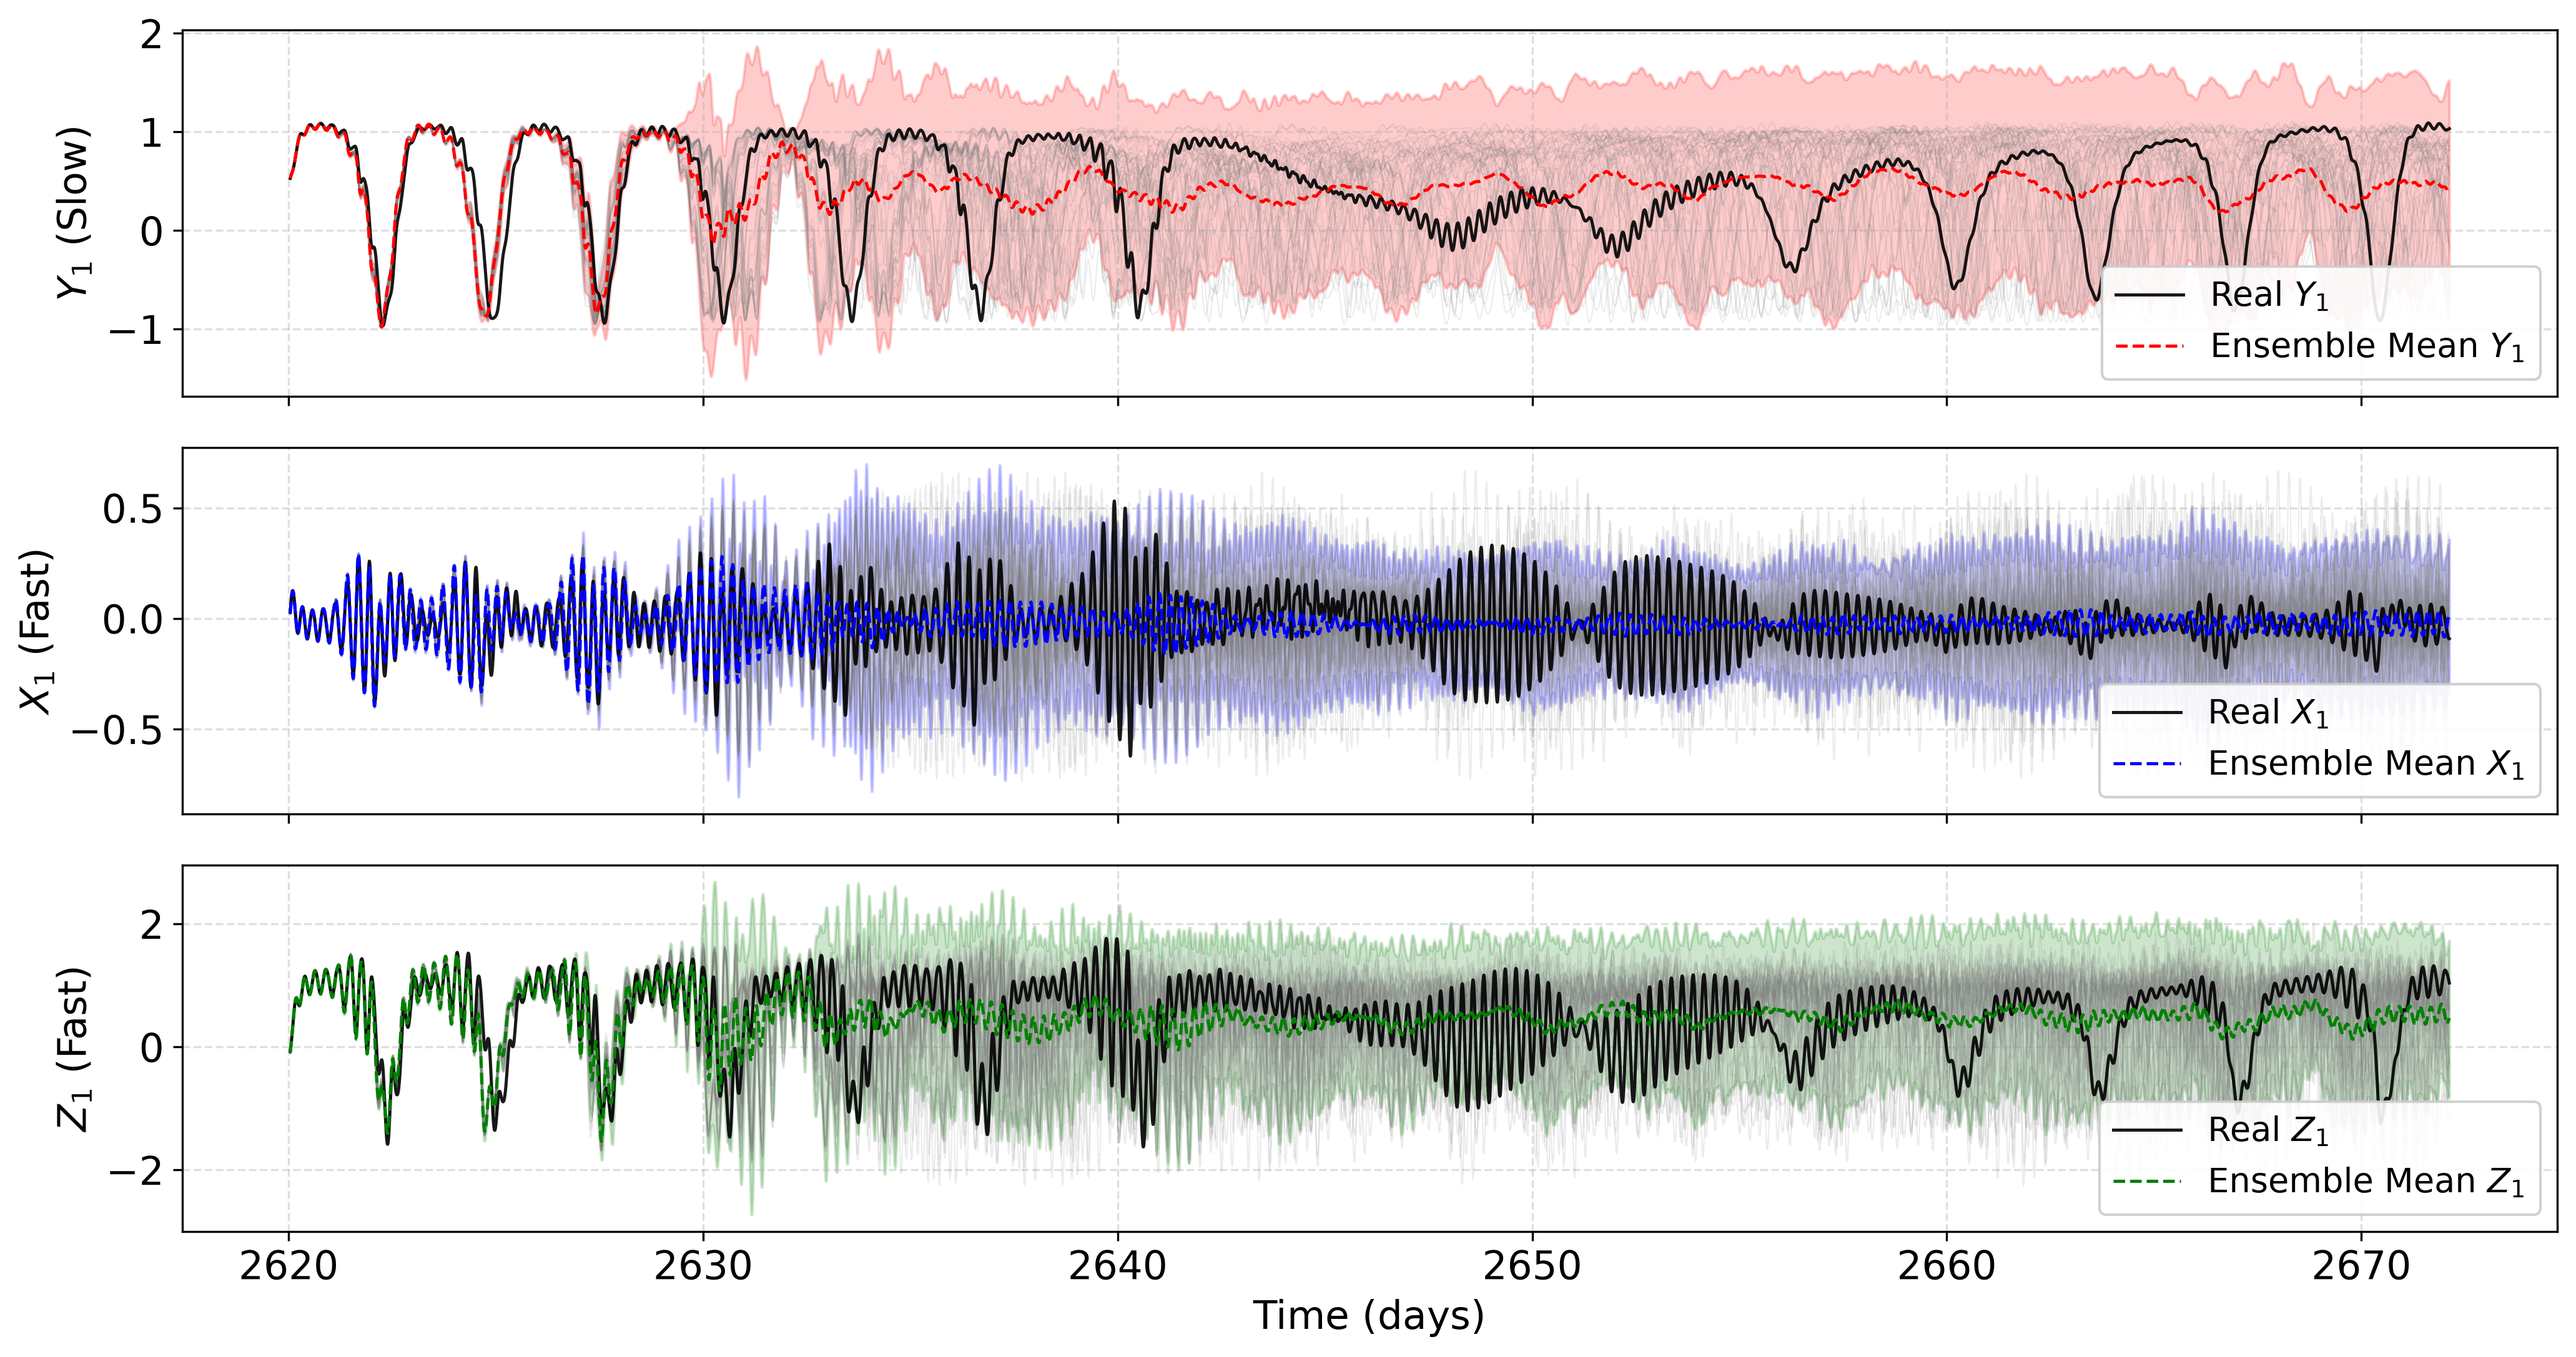
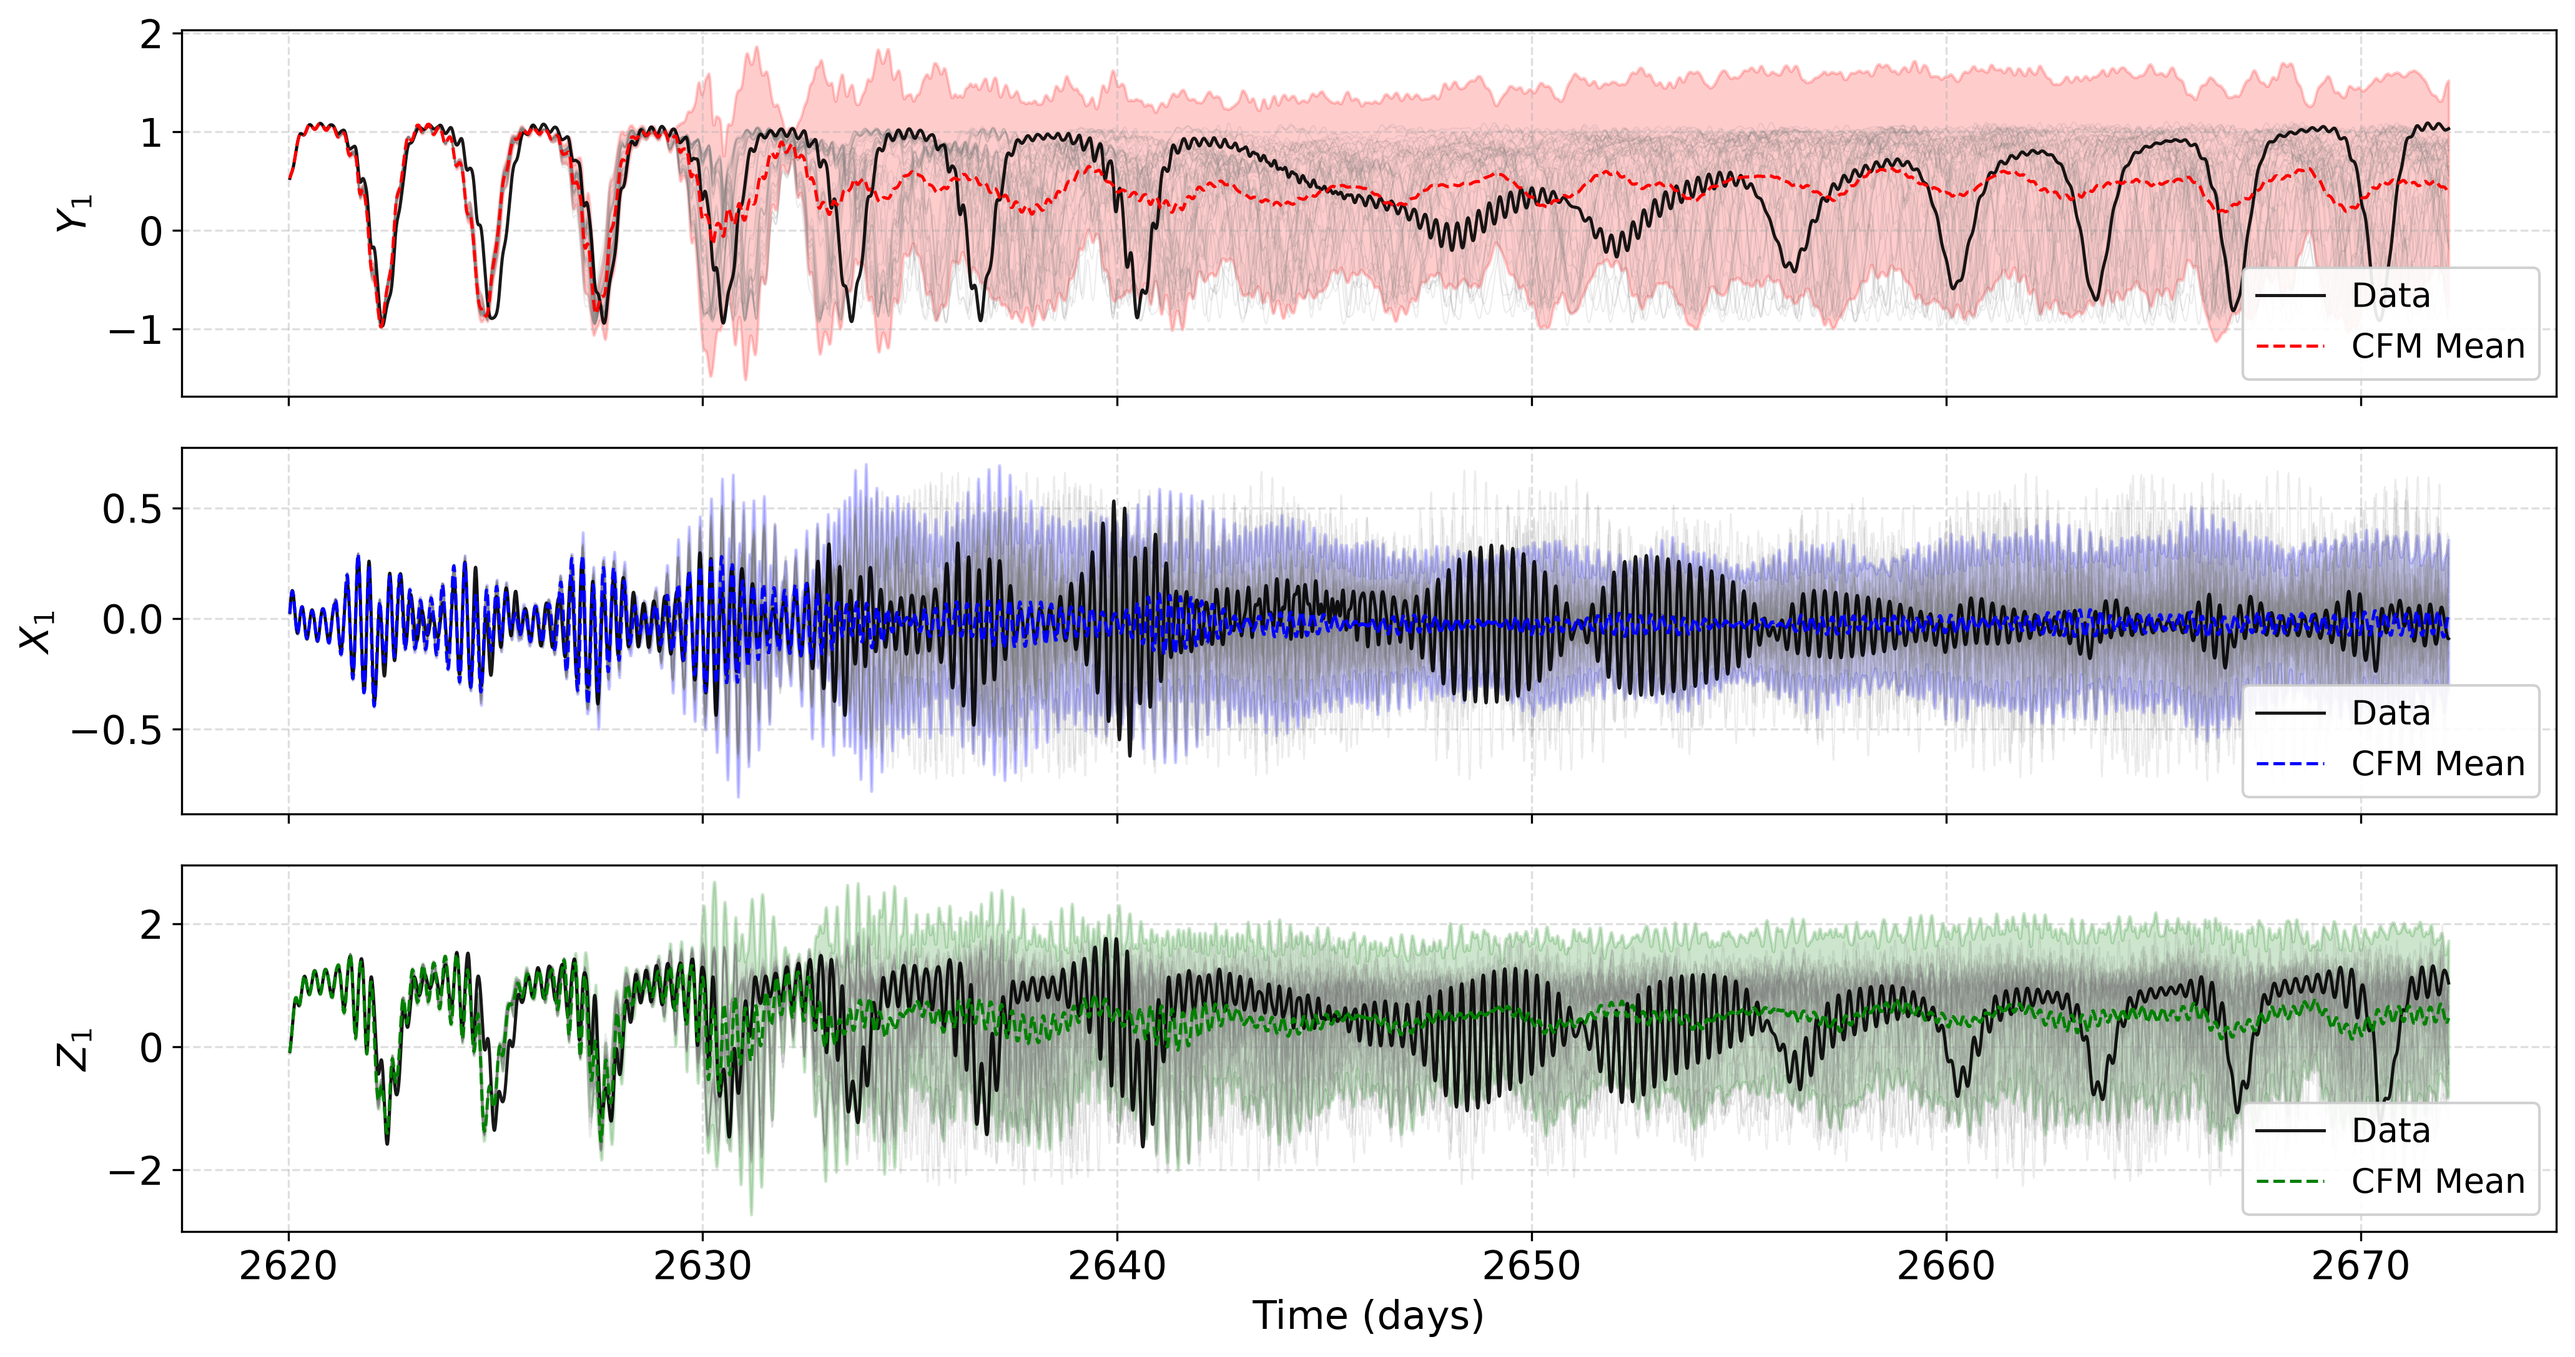
FIX: More improvements in the plot_dynamics

diff --git a/val/closed_loop/plot_dynamics.py b/val/closed_loop/plot_dynamics.py
@@ -65,29 +65,29 @@ def plot_dynamics(
 
     # 1. Variable Lenta Y1
     axes[0].plot(t_axis, ens_y[:, :, 0], color='gray', alpha=0.15, linewidth=0.5)
-    axes[0].plot(t_axis, Y_true[:, 0], 'k-', label='Real $Y_1$', alpha=0.9, linewidth=1.2)
-    axes[0].plot(t_axis, mean_y[:, 0], 'r--', label='Ensemble Mean $Y_1$', linewidth=1.2)
+    axes[0].plot(t_axis, Y_true[:, 0], 'k-', label='Data', alpha=0.9, linewidth=1.2)
+    axes[0].plot(t_axis, mean_y[:, 0], 'r--', label='CFM Mean', linewidth=1.2)
     axes[0].fill_between(t_axis, mean_y[:, 0] - 2 * std_y[:, 0], mean_y[:, 0] + 2 * std_y[:, 0], color='r', alpha=0.2)
-    axes[0].set_ylabel('$Y_1$ (Slow)')
+    axes[0].set_ylabel('$Y_1$')
     axes[0].legend(loc='lower right', frameon=True, framealpha=0.9)
     axes[0].grid(True, linestyle='--', alpha=0.4)
 
     # 2. Variable Rápida X1
     axes[1].plot(t_axis, ens_x[:, :, 0], color='gray', alpha=0.15, linewidth=0.5)
-    axes[1].plot(t_axis, X_true[:, 0], 'k-', label='Real $X_1$', alpha=0.9, linewidth=1.2)
-    axes[1].plot(t_axis, mean_x[:, 0], 'b--', label='Ensemble Mean $X_1$', linewidth=1.2)
+    axes[1].plot(t_axis, X_true[:, 0], 'k-', label='Data', alpha=0.9, linewidth=1.2)
+    axes[1].plot(t_axis, mean_x[:, 0], 'b--', label='CFM Mean', linewidth=1.2)
     axes[1].fill_between(t_axis, mean_x[:, 0] - 2 * std_x[:, 0], mean_x[:, 0] + 2 * std_x[:, 0], color='b', alpha=0.2)
-    axes[1].set_ylabel('$X_1$ (Fast)')
+    axes[1].set_ylabel('$X_1$')
     axes[1].legend(loc='lower right', frameon=True, framealpha=0.9)
     axes[1].grid(True, linestyle='--', alpha=0.4)
 
     # 3. Variable Rápida Z1
     axes[2].plot(t_axis, ens_z[:, :, 0], color='gray', alpha=0.15, linewidth=0.5)
-    axes[2].plot(t_axis, Z_true[:, 0], 'k-', label='Real $Z_1$', alpha=0.9, linewidth=1.2)
-    axes[2].plot(t_axis, mean_z[:, 0], 'g--', label='Ensemble Mean $Z_1$', linewidth=1.2)
+    axes[2].plot(t_axis, Z_true[:, 0], 'k-', label='Data', alpha=0.9, linewidth=1.2)
+    axes[2].plot(t_axis, mean_z[:, 0], 'g--', label='CFM Mean', linewidth=1.2)
     axes[2].fill_between(t_axis, mean_z[:, 0] - 2 * std_z[:, 0], mean_z[:, 0] + 2 * std_z[:, 0], color='g', alpha=0.2)
     axes[2].set_xlabel('Time (days)')
-    axes[2].set_ylabel('$Z_1$ (Fast)')
+    axes[2].set_ylabel('$Z_1$')
     axes[2].legend(loc='lower right', frameon=True, framealpha=0.9)
     axes[2].grid(True, linestyle='--', alpha=0.4)
 

diff --git a/val/closed_loop/simulate.py b/val/closed_loop/simulate.py
@@ -82,4 +82,4 @@ if __name__ == '__main__':
     test_start_idx = stats['split_idx']
     
     # Simular en el conjunto de prueba que el modelo NUNCA vio en entrenamiento
-    run(M=50, N=100000, dt=4.2e-3, Ts=test_start_idx + 230000, initial_sigma_Y=1e-3)
+    run(M=50, N=100000, dt=4.2e-3, Ts=test_start_idx + 230000, initial_sigma_Y=1e-4)
